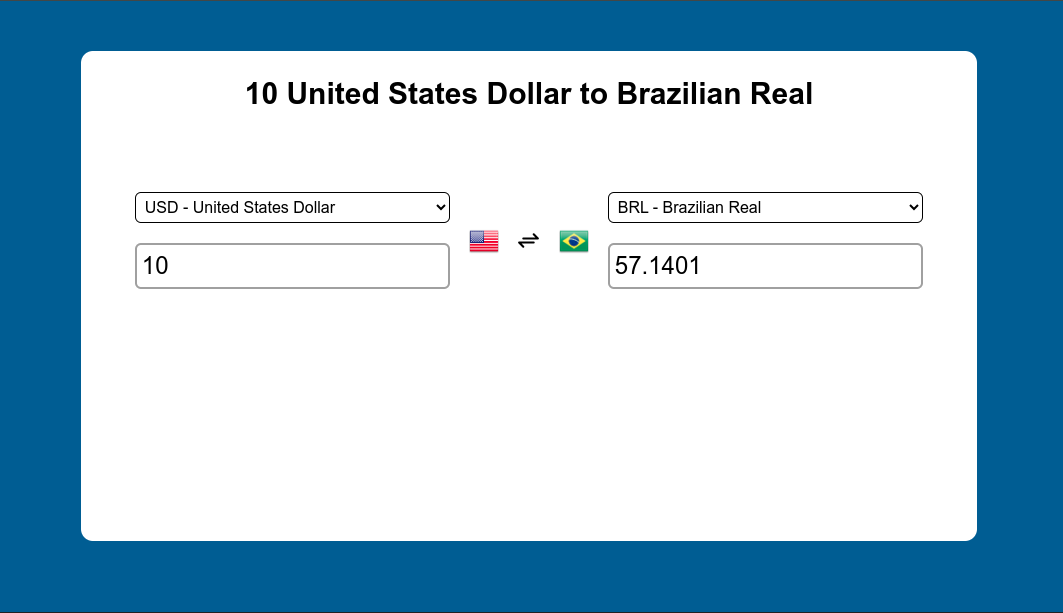
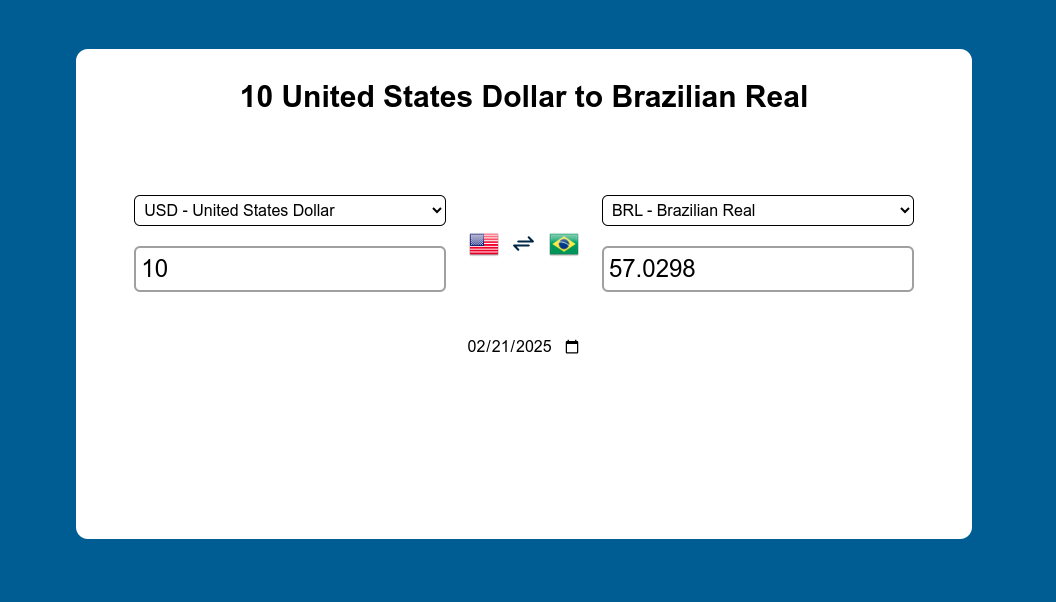
add an actual README file

diff --git a/README.md b/README.md
@@ -2,14 +2,12 @@
 
 ![Home page screenshot](/public/images/HomePageScreenshot.png)
 
-- download the project
+## How can you can i run it?
+
+- Download the project
+- Open the terminal in the project folder and execute the commands below
 
 ```
 npm i
 npm run dev
 ```
-
-### TODO
-
-- add a date option
-- write an actual README file
